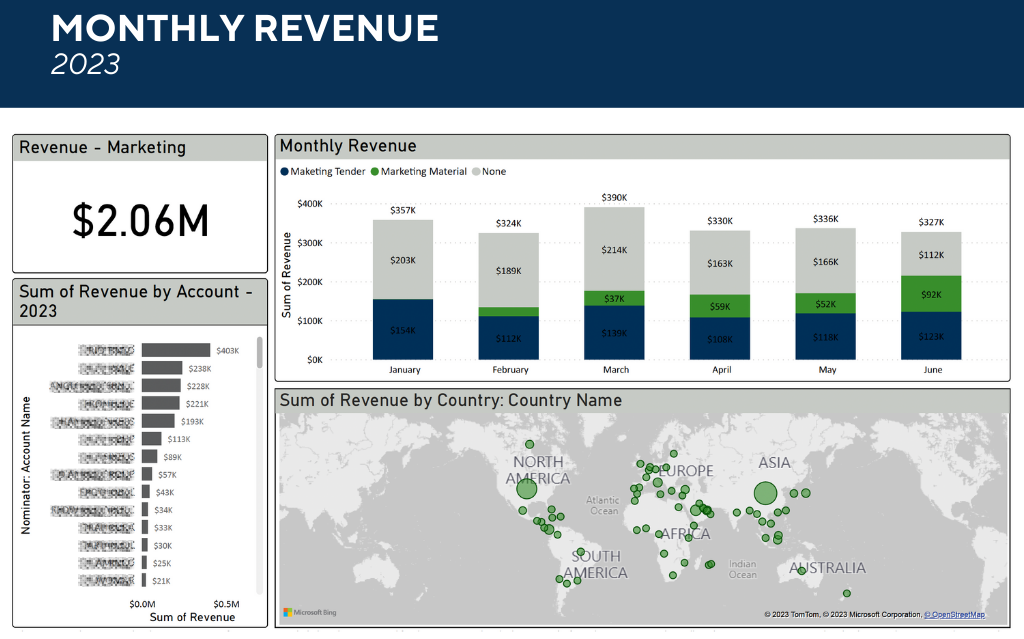
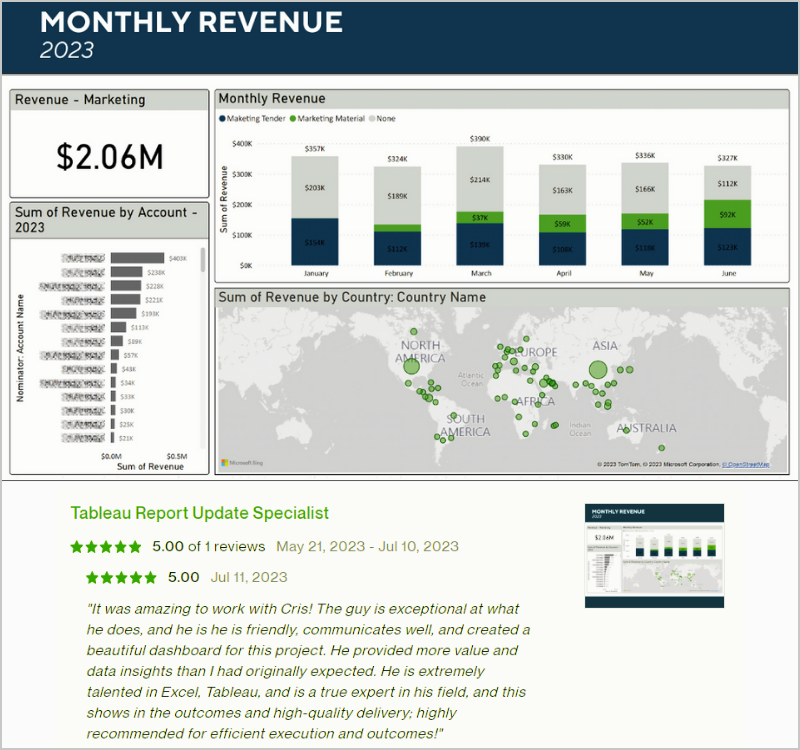
edit on project examples and cv image

diff --git a/Portfolio_Web_App.py b/Portfolio_Web_App.py
@@ -9,7 +9,7 @@ tab1, tab2 = st.tabs(["Portfolio", "CV"])
 
 with tab1:
     
-    col1, col2, col3, col4 = st.columns([0.7, 4.5, 0.35, 0.7])
+    col1, col2, col3, col4 = st.columns([1, 4, 0.4, 1])
     
     with col1:
         profile_pic = Image.open("profile_pic.jpg")
@@ -17,11 +17,8 @@ with tab1:
 
     with col2:
         st.title("Cristian Rivas")
-        st.subheader("Data Analyst Portfolio")
-        st.write("""
-        ### [Hire me on Upwork](https://www.upwork.com/freelancers/cristianr16) \n
-        email: crisalexis3008@gmail.com
-        """)
+        st.subheader("Data Analyst")
+        st.write("email: crisalexis3008@gmail.com")
         
     with col3:   
         st.image(Image.open("icons/Linkedin.png"), width = 50)#linkedin
@@ -30,12 +27,8 @@ with tab1:
         
     with col4:
         st.button("LinkedIn", "https://www.linkedin.com/in/cristian-rivas-0b4a0212b/")#linkedin
-        st.button("UpWork", "https://www.upwork.com/freelancers/cristianr16")#upwork
+        st.button("Hire me on UpWork", "https://www.upwork.com/freelancers/cristianr16")#upwork
         st.button("GitHub", "https://github.com/potatocris/DA")#github
-
-
-#                email: crisalexis3008@gmail.com
-
 
     st.divider()
     colp1, colp2, colp3 = st.columns(3)
@@ -44,14 +37,14 @@ with tab1:
     with colp1:
         with st.container():
             st.markdown("#### Tableau Revenue Dashbaord")
-            st.image(Image.open("portfolio_examples/Maritime_revenue.png"))
-            st.image(Image.open("portfolio_examples/maritime_revenue_feedback.png"))
+            st.image(Image.open("portfolio_examples/maritime_revenue.png"))
+            #st.image(Image.open("portfolio_examples/maritime_revenue_feedback.png"))
             
             col1, col2, col3 = st.columns([1, 1, 8])
             with col1:
                     st.image(Image.open("icons/python.png"), width = 30)
             with col2: 
-                st.image(Image.open("icons/tableau.png"), width = 150)
+                st.image(Image.open("icons/tableau.png"), width = 160)
             with st.expander("Project Summary"):
                 st.write("""
                          Objective: Link revenue to marketing strategies. 
@@ -65,14 +58,13 @@ with tab1:
     with colp2:
         with st.container():
             st.markdown("#### Streamlit Performance Web App")
-            st.image(Image.open("portfolio_examples/sport_student_web_app.png"))
-            st.image(Image.open("portfolio_examples/sport_student_web_app_feedback.png"))
+            st.image(Image.open("portfolio_examples/streamlit_sports.png"))
             
             col1, col2, col3 = st.columns([1, 1, 8])
             with col1:
                     st.image(Image.open("icons/python.png"), width = 30)
             with col2: 
-                st.image(Image.open("icons/streamlit.png"), width = 70)
+                st.image(Image.open("icons/streamlit.png"), width = 60)
                 
             with st.expander("Project Summary"):
                 st.write("""
@@ -86,14 +78,13 @@ with tab1:
     with colp3:
         with st.container():
             st.markdown("#### Power Bi Sales Dashbaord")
-            st.image(Image.open("portfolio_examples/JFab Power Bi.png"), caption = "Caption")
-            st.image(Image.open("portfolio_examples/JFab Power Bi review.png"))
+            st.image(Image.open("portfolio_examples/jfab_sales.png"))
             
             col1, col2, col3 = st.columns([1, 1, 8])
             with col1:
-                    st.image(Image.open("icons/power bi.png"), width = 80)
+                    st.image(Image.open("icons/power bi.png"), width = 65)
             with col2: 
-                st.image(Image.open("icons/Excel logo.png"), width = 70)
+                st.image(Image.open("icons/Excel logo.png"), width = 50)
                 
                 
             with st.expander("Project Summary"):
@@ -106,14 +97,19 @@ with tab1:
                          """)
         
 
-
-
 with tab2:
     st.title("CV")
-    def show_pdf(file_path):
-        with open(file_path,"rb") as f:
-            base64_pdf = base64.b64encode(f.read()).decode('utf-8')
-        pdf_display = f'<iframe src="data:application/pdf;base64,{base64_pdf}" width="800" height="800" type="application/pdf"></iframe>'
-        st.markdown(pdf_display, unsafe_allow_html=True)
-
-    show_pdf('Cristian_Rivas_Data_Analyst_CV.pdf')
+    
+    #enable cv download
+    with open('Cristian_Rivas_Data_Analyst_CV.pdf', 'rb') as file:
+        PDFbyte = file.read()        
+    
+    st.download_button(
+            label = "Download PDF", 
+            data = PDFbyte,
+            file_name="CV.pdf",
+            mime='application/octet-stream') 
+    
+    st.image(Image.open("cv.jpg"))
+    
+    
